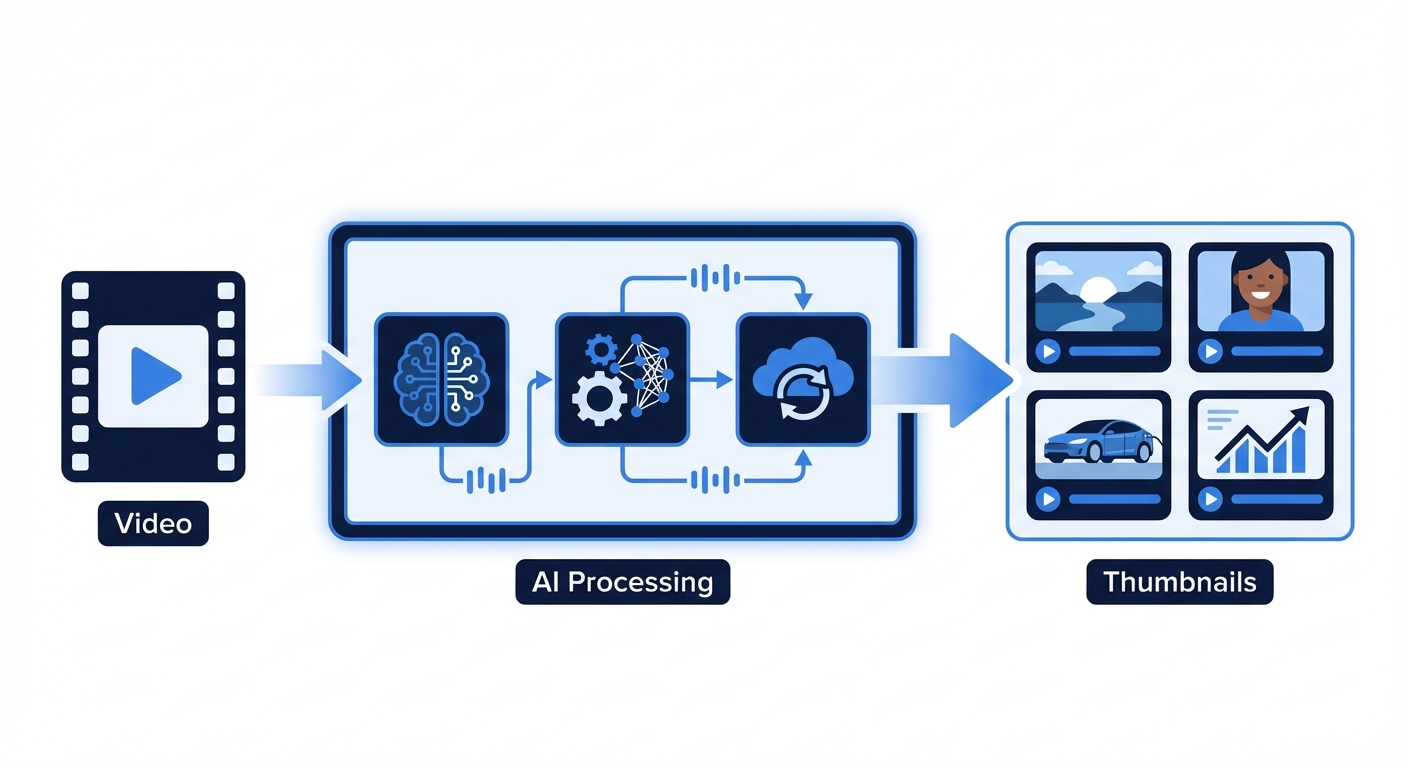
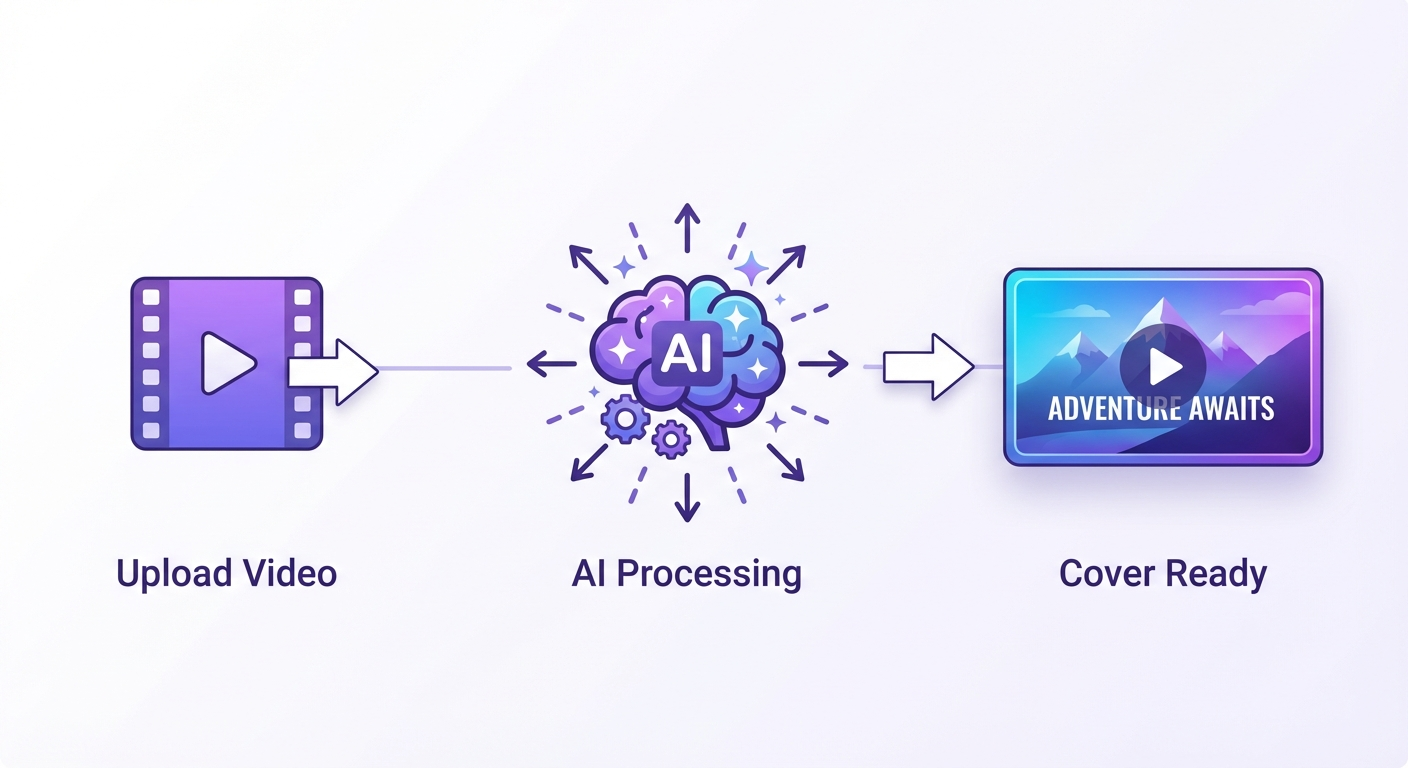
Auto-commit: 2026-02-21 15:25

Changed region(s): [[0.0312, 0.25, 0.9688, 0.8125]]

diff --git a/README.md b/README.md
@@ -1,120 +1,76 @@
 [中文](./README.zh.md) | **English**
 
+<div align="center">
+
+<img src="public/logo-text.png" width="400" />
+
 # Cover Generator
 
-<p align="center">
-  <img src="public/logo.png" width="120" alt="Cover Generator" />
-</p>
+**YOUR VIDEO DESERVES A BETTER COVER**
 
-<p align="center">
-  AI-powered video thumbnail batch generator — from raw video to polished covers, fully automated.
-</p>
+[![Build](https://img.shields.io/badge/build-passing-brightgreen)]()
+[![Next.js](https://img.shields.io/badge/Next.js-16-black)]()
+[![AI](https://img.shields.io/badge/AI-Gemini-blue)]()
+[![License](https://img.shields.io/badge/license-MIT-green)]()
 
-<p align="center">
-  <img src="https://img.shields.io/badge/Next.js-15-black?logo=next.js" />
-  <img src="https://img.shields.io/badge/TypeScript-5-blue?logo=typescript" />
-  <img src="https://img.shields.io/badge/SQLite-WAL-green?logo=sqlite" />
-  <img src="https://img.shields.io/badge/License-MIT-yellow" />
-</p>
+[Features](#-features) · [How It Works](#-how-it-works) · [Quick Start](#-quick-start) · [中文](./README.zh.md)
+
+</div>
 
 ---
 
-## What it does
+**Cover Generator** is an *AI-powered thumbnail generation tool* for video creators. Upload your video — the AI transcribes it, writes a viral title, and generates a polished cover image in minutes. No design skills required.
 
-Drop in a video file (or paste a script), pick your templates, and get production-ready thumbnails — in parallel, with AI quality review and auto-correction built in.
+## ✨ Features
 
-<p align="center">
-  <img src="public/illus-pipeline.en.png" width="600" alt="Pipeline" />
-</p>
+- **Video-to-cover automation** — Upload a video; Whisper transcribes it, AI writes the title, cover is generated end-to-end.
+- **Self-correcting AI review loop** — Generated covers are auto-reviewed and regenerated up to 3 times until they pass quality checks.
+- **Template learning** — Upload a reference cover once; the AI learns your style and reuses it forever.
+- **Smart asset library** — Store logos, characters, and backgrounds; AI picks the best match for each video automatically.
+- **Parallel batch generation** — Run up to 5 templates simultaneously and pick your favorite.
+- **Multi-ratio support** — Output in 16:9, 4:3, 1:1, 9:16, and more — ready for any platform.
 
-## Pipeline
+## 🖼 How It Works
 
-```
-Video / Script / Title
-        │
-        ▼
-  [Whisper] Transcribe audio
-        │
-        ▼
-  [gemini-flash] Generate viral title
-        │
-        ├── Template A ──┐
-        ├── Template B ──┤  up to 5 parallel
-        ├── Template C ──┘
-        │
-        ▼
-  Phase 1 · Element adaptation   (titles, image prompts, backgrounds)
-  Phase 2 · Image generation     (gemini-image-pro)
-  Phase 3 · Quality review       (auto-retry up to 3×)
-        │
-        ▼
-  ✓ Final covers
-```
+<div align="center">
+<img src="public/illus-pipeline.en.png" width="600" />
+</div>
 
-## Features
+Upload your video. Whisper extracts and transcribes the audio. The AI analyzes the transcript, generates a punchy title, then produces a cover image — all in one automated pipeline.
 
-| | |
-|---|---|
-| **Multi-template batch** | Up to 5 templates rendered in parallel |
-| **Video → script** | Auto audio extraction + Whisper transcription |
-| **Viral title generation** | Platform-aware (Bilibili / YouTube) |
-| **Two-phase generation** | Element adaptation first → consistent style |
-| **Style transfer** | Reference image or text description |
-| **Self-healing quality loop** | AI reviewer auto-retries with feedback (max 3×) |
-| **Asset library** | Characters / logos auto-injected into covers |
-| **Real-time progress** | Live log streaming per template |
+<div align="center">
+<img src="public/illus-batch.en.png" width="600" />
+</div>
 
-<p align="center">
-  <img src="public/illus-batch.en.png" width="600" alt="Batch generation" />
-</p>
+Select multiple templates and generate up to 5 covers in parallel. Compare results side-by-side and publish the one that fits best.
 
-## Quick Start
+<div align="center">
+<img src="public/illus-review.en.png" width="600" />
+</div>
+
+Every cover goes through an AI review pass. If it doesn't meet the quality bar, the system automatically retries with feedback — up to 3 times — before surfacing the result.
+
+## 🚀 Quick Start
 
 ```bash
 npm install
-cp .env.example .env.local
+cp .env.example .env.local   # fill in AI_BASE_URL and AI_API_KEY
 mkdir -p public/uploads/{templates,covers,frames}
 npm run dev
 ```
 
-Open http://localhost:3000
+Open [http://localhost:3000](http://localhost:3000).
 
-## Configuration
-
-```env
-AI_BASE_URL=https://your-openai-compatible-api/v1
-AI_API_KEY=your-key
-ANALYSIS_MODEL=gemini-3-flash-preview
-IMAGE_GEN_MODEL=gemini-3-pro-image-preview
-```
-
-## Usage
-
-```
-① Templates  →  upload template images  →  AI analyzes element structure
-② Resources  →  upload character/logo assets  →  organize by category
-③ Generate:
-     Step 1  paste script or upload video + choose output ratio
-     Step 2  select templates (multi-select)
-     Step 3  choose resource categories + generation options
-     Step 4  optional style reference image or description
-     → Start → watch live progress → download covers
-```
-
-<p align="center">
-  <img src="public/illus-review.en.png" width="600" alt="Quality review" />
-</p>
-
-## Tech Stack
+## 🛠 Tech Stack
 
 | Layer | Technology |
 |---|---|
-| Framework | Next.js 15 + TypeScript + React 19 |
+| Framework | Next.js 16 + TypeScript + React 19 |
 | Styling | Tailwind CSS 4 |
 | Database | SQLite (better-sqlite3, WAL mode) |
-| AI API | OpenAI-compatible |
+| AI Models | Gemini flash + pro-image (OpenAI-compatible API) |
 | Transcription | Whisper |
-| Video | ffmpeg |
+| Video processing | ffmpeg |
 
 ## License
 

diff --git a/README.zh.md b/README.zh.md
@@ -1,118 +1,74 @@
 **中文** | [English](./README.md)
 
-# Cover Generator — AI 视频封面生成器
+<div align="center">
 
-<p align="center">
-  <img src="public/logo.png" width="120" alt="Cover Generator" />
-</p>
+<img src="public/logo-text.png" width="400" />
 
-<p align="center">
-  基于 AI 的视频封面批量生成工具，支持多模板并行、风格迁移、自动质量审核。
-</p>
+# Cover Generator — 封面生成器
 
-<p align="center">
-  <img src="https://img.shields.io/badge/Next.js-15-black?logo=next.js" />
-  <img src="https://img.shields.io/badge/TypeScript-5-blue?logo=typescript" />
-  <img src="https://img.shields.io/badge/SQLite-WAL-green?logo=sqlite" />
-  <img src="https://img.shields.io/badge/License-MIT-yellow" />
-</p>
+**YOUR VIDEO DESERVES A BETTER COVER**
+
+[![Build](https://img.shields.io/badge/build-passing-brightgreen)]()
+[![Next.js](https://img.shields.io/badge/Next.js-16-black)]()
+[![AI](https://img.shields.io/badge/AI-Gemini-blue)]()
+[![License](https://img.shields.io/badge/license-MIT-green)]()
+
+[功能特性](#-功能特性) · [工作原理](#-工作原理) · [快速开始](#-快速开始) · [English](./README.md)
+
+</div>
 
 ---
 
-## 是什么
+**封面生成器**是面向视频创作者的 *AI 驱动封面自动生成工具*。上传视频，AI 自动转录、生成爆款标题、输出精美封面——全程无需设计技能。
 
-上传视频文件（或粘贴文案），选好模板，自动生成多套可发布的封面图——多模板并行处理，内置 AI 质量审核与自动修正。
+## ✨ 功能特性
 
-<p align="center">
-  <img src="public/illus-pipeline.zh.png" width="600" alt="生成流程" />
-</p>
+- **视频一键生成封面** — 上传视频，Whisper 自动转录，AI 生成标题，端到端全自动出图。
+- **AI 自动审核重试** — 每张封面经 AI 质量审核，不达标自动带反馈重试，最多 3 次。
+- **模板风格学习** — 上传一次参考封面，AI 学习你的风格，后续永久复用。
+- **智能素材库** — 存储 Logo、人物、背景素材，AI 自动为每个视频匹配最合适的资源。
+- **多模板并行生成** — 最多同时跑 5 套模板，对比挑选最佳结果。
+- **多比例输出** — 支持 16:9、4:3、1:1、9:16 等多种比例，适配各大平台。
 
-## 生成原理
+## 🖼 工作原理
 
-```
-视频文件 / 文案 / 标题
-        │
-        ▼
-  [Whisper] 提取音频 → 转录文案
-        │
-        ▼
-  [gemini-flash] 生成爆款标题
-        │
-        ├── 模板 A ──┐
-        ├── 模板 B ──┤  最多 5 并发
-        ├── 模板 C ──┘
-        │
-        ▼
-  Phase 1 · 元素适配   （标题文案、图片描述、背景）
-  Phase 2 · 图片生成   （gemini-image-pro）
-  Phase 3 · 质量审核   （不合格自动重试，最多 3 次）
-        │
-        ▼
-  ✓ 封面图片
-```
+<div align="center">
+<img src="public/illus-pipeline.zh.png" width="600" />
+</div>
 
-## 功能特性
+上传视频后，Whisper 提取音频并转录文案，AI 分析内容生成爆款标题，再自动生成封面图——一条流水线全部搞定。
 
-| | |
-|---|---|
-| **多模板并行** | 最多 5 个模板同时生成 |
-| **视频转文案** | 自动提取音频，Whisper 转录 |
-| **爆款标题生成** | 针对 B 站 / YouTube 平台优化 |
-| **两阶段生成** | 先适配元素内容，再生成图片，风格更统一 |
-| **风格迁移** | 上传参考图或文字描述风格 |
-| **自动质量审核** | AI 检测不合格自动带反馈重试（最多 3 次） |
-| **资源库** | 人物 / Logo 素材自动注入封面 |
-| **实时进度** | 每个模板独立日志流式展示 |
+<div align="center">
+<img src="public/illus-batch.zh.png" width="600" />
+</div>
 
-<p align="center">
-  <img src="public/illus-batch.zh.png" width="600" alt="批量生成" />
-</p>
+选择多套模板，最多 5 个并行生成。结果并排对比，选出最满意的一张直接发布。
 
-## 快速开始
+<div align="center">
+<img src="public/illus-review.zh.png" width="600" />
+</div>
+
+每张封面都经过 AI 审核。不合格时系统自动附上反馈重新生成，最多重试 3 次，确保质量达标再呈现给你。
+
+## 🚀 快速开始
 
 ```bash
 npm install
-cp .env.example .env.local
+cp .env.example .env.local   # 填写 AI_BASE_URL 和 AI_API_KEY
 mkdir -p public/uploads/{templates,covers,frames}
 npm run dev
 ```
 
-访问 http://localhost:3000
+访问 [http://localhost:3000](http://localhost:3000)。
 
-## 环境变量
-
-```env
-AI_BASE_URL=https://your-api/v1
-AI_API_KEY=your-key
-ANALYSIS_MODEL=gemini-3-flash-preview
-IMAGE_GEN_MODEL=gemini-3-pro-image-preview
-```
-
-## 使用流程
-
-```
-① 模板库  →  上传封面模板图  →  AI 分析元素结构
-② 资源库  →  上传人物/Logo 素材  →  分类管理
-③ 生成封面：
-     Step 1  输入文案 / 上传视频  +  选择输出比例
-     Step 2  选择模板（可多选）
-     Step 3  选择资源分类  +  生成选项
-     Step 4  风格参考图 / 风格描述（可选）
-     → 开始生成 → 实时查看进度 → 下载封面
-```
-
-<p align="center">
-  <img src="public/illus-review.zh.png" width="600" alt="质量审核" />
-</p>
-
-## 技术栈
+## 🛠 技术栈
 
 | 层级 | 技术 |
 |---|---|
-| 前端框架 | Next.js 15 + TypeScript + React 19 |
+| 前端框架 | Next.js 16 + TypeScript + React 19 |
 | 样式 | Tailwind CSS 4 |
 | 数据库 | SQLite（better-sqlite3，WAL 模式） |
-| AI 接口 | OpenAI 兼容 API |
+| AI 模型 | Gemini flash + pro-image（OpenAI 兼容 API） |
 | 语音转录 | Whisper |
 | 视频处理 | ffmpeg |
 
